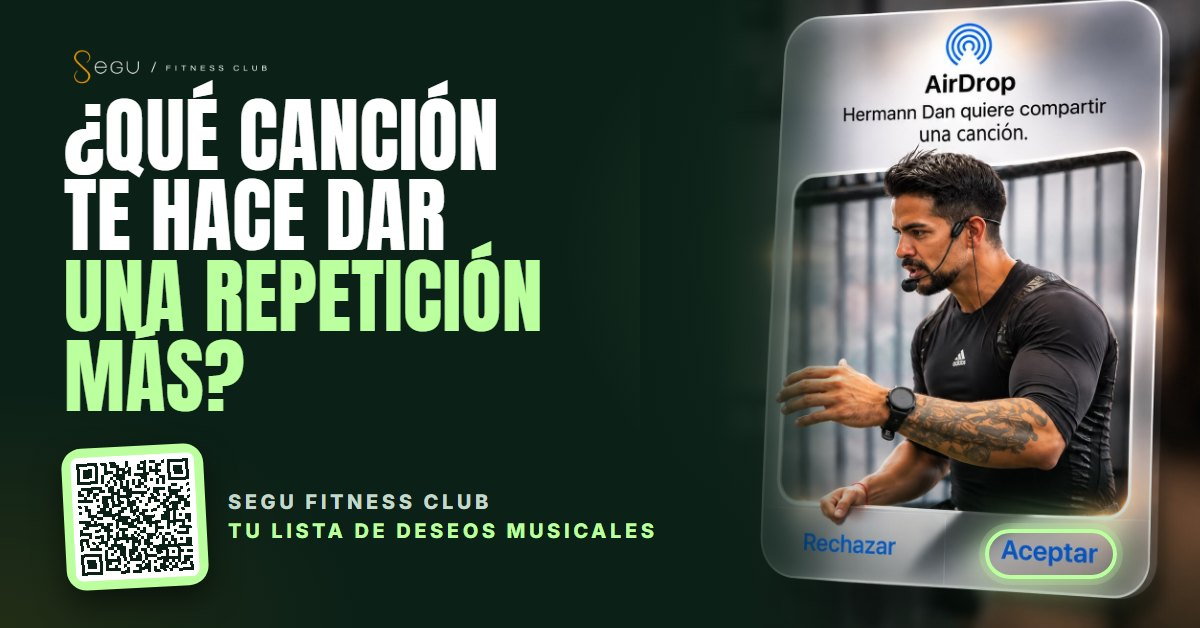
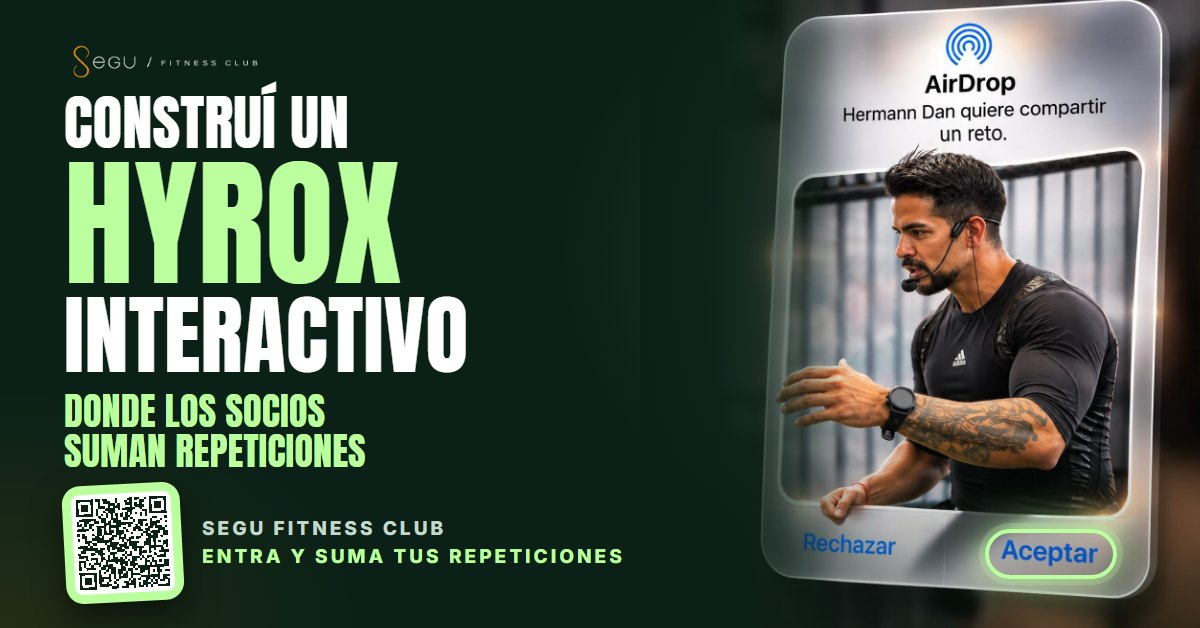
App: HYROX interactivo primero (el visitante suma sus repeticiones); landing y vista previa con la tarjeta nueva

Changed region(s): [[0.0308, 0.0605, 0.555, 0.9682], [0.7708, 0.1815, 0.8633, 0.242]]

diff --git a/app/index.html b/app/index.html
@@ -83,14 +83,17 @@ form.sg input::placeholder{color:#7f9a8a}
 .vote svg{width:14px;height:14px}
 
 /* hyrox */
-.hx-top{display:grid;grid-template-columns:1fr 1fr;gap:10px;margin-bottom:12px}
-.hx-top .card{padding:12px 14px}
-.hx-top b{display:block;font-family:var(--disp);font-weight:400;font-size:34px;line-height:1;color:var(--lime);font-variant-numeric:tabular-nums}
-.hx-top span{font-size:10.5px;font-weight:800;letter-spacing:.16em;color:var(--mut)}
+.hx-top{display:grid;grid-template-columns:1fr 1fr 1fr;gap:8px;margin-bottom:12px}
+.hx-top .card{padding:10px 12px}
+.hx-top b{display:block;font-family:var(--disp);font-weight:400;font-size:30px;line-height:1;color:var(--lime);font-variant-numeric:tabular-nums}
+.hx-top span{font-size:9.5px;font-weight:800;letter-spacing:.14em;color:var(--mut)}
+.hr.me{background:rgba(188,255,159,.12);border-radius:10px}
+.hr.me .nm{color:var(--lime)}
+.sumar{width:100%;padding:20px;font-family:var(--disp);font-weight:400;font-size:30px;letter-spacing:.04em;border-radius:20px}
 .board{position:relative;background:#06130d;border:1px solid rgba(188,255,159,.16);border-radius:18px;padding:10px;overflow:hidden}
 .legend{display:flex;gap:14px;font-size:11px;font-weight:800;letter-spacing:.1em;color:var(--mut);margin-bottom:8px;flex-wrap:wrap}
 .legend i{display:inline-block;width:10px;height:10px;border-radius:3px;margin-right:6px;vertical-align:-1px}
-.rows{position:relative;height:calc(12 * 31px)}
+.rows{position:relative;height:calc(13 * 31px)}
 .hr{position:absolute;left:0;right:0;height:27px;display:flex;align-items:center;gap:8px;transition:transform .55s cubic-bezier(.2,.8,.2,1)}
 .hr .rk{flex:0 0 22px;font-family:var(--disp);font-size:16px;color:var(--mut);text-align:right}
 .hr .nm{flex:0 0 78px;font-size:12.5px;font-weight:700;white-space:nowrap;overflow:hidden;text-overflow:ellipsis}
@@ -98,7 +101,7 @@ form.sg input::placeholder{color:#7f9a8a}
 .hr .tr i{display:block;height:100%;border-radius:8px;transition:width .5s ease,background-color .3s}
 .hr .rn{flex:0 0 34px;font-size:12px;color:var(--mut);text-align:right;font-variant-numeric:tabular-nums}
 .hr.top1 .nm{color:var(--gold)}
-.hr.pop .tr i{filter:brightness(1.5)}
+.hr.pop .tr i{filter:brightness(1.25)}
 .hx-act{margin-top:12px}
 
 /* evaluación */
@@ -156,7 +159,7 @@ input[type=range]{width:100%;accent-color:#bcff9f;height:28px}
 
   <main>
     <!-- MÚSICA -->
-    <section class="panel on" id="p-musica" aria-labelledby="h-musica">
+    <section class="panel" id="p-musica" aria-labelledby="h-musica">
       <h2 id="h-musica">Lista de deseos</h2>
       <p class="sub">Los socios proponen la música de la próxima clase y votan. Gana la que más se pide.</p>
       <div class="next"><div><div class="k">SUENA PRIMERO EN LA CLASE</div><div class="t" id="nxT">—</div><div class="a" id="nxA"></div></div><div class="eq" aria-hidden="true"><i></i><i></i><i></i><i></i><i></i></div></div>
@@ -165,12 +168,12 @@ input[type=range]{width:100%;accent-color:#bcff9f;height:28px}
     </section>
 
     <!-- HYROX -->
-    <section class="panel" id="p-hyrox" aria-labelledby="h-hyrox">
+    <section class="panel on" id="p-hyrox" aria-labelledby="h-hyrox">
       <h2 id="h-hyrox">HYROX en vivo</h2>
-      <p class="sub">Pantalla de carrera con participantes ficticios. Toca ESCANEAR o activa el modo en vivo.</p>
-      <div class="hx-top"><div class="card"><span>REPS EN LA SALA</span><b id="hxReps">0</b></div><div class="card"><span>TIEMPO</span><b id="hxClock">00:00</b></div></div>
-      <div class="board"><div class="legend"><span><i style="background:var(--blue)"></i>PRESS</span><span><i style="background:var(--orange)"></i>PULL</span><span><i style="background:var(--green)"></i>CURL</span><span><i style="background:var(--gold)"></i>META</span></div><div class="rows" id="hxRows"></div></div>
-      <div class="row hx-act"><button class="btn p" id="hxScan" type="button">ESCANEAR</button><button class="btn s" id="hxAuto" type="button" aria-pressed="false">Modo en vivo</button><button class="btn s" id="hxReset" type="button">Reiniciar</button></div>
+      <p class="sub">Eres el participante «TÚ». Toca SUMAR y cada toque te acerca a la meta; los demás ya están corriendo.</p>
+      <div class="hx-top"><div class="card"><span>REPS EN LA SALA</span><b id="hxReps">0</b></div><div class="card"><span>TUS REPS</span><b id="hxMine">0</b></div><div class="card"><span>TIEMPO</span><b id="hxClock">00:00</b></div></div>
+      <button class="btn p sumar" style="margin:0 0 12px" id="hxSumar" type="button">SUMAR REPETICIONES</button><div class="board"><div class="legend"><span><i style="background:var(--blue)"></i>PRESS</span><span><i style="background:var(--orange)"></i>PULL</span><span><i style="background:var(--green)"></i>CURL</span><span><i style="background:var(--gold)"></i>META</span></div><div class="rows" id="hxRows"></div></div>
+      <div class="row hx-act"><button class="btn s" id="hxAuto" type="button" aria-pressed="true">Pausar a los demás</button><button class="btn s" id="hxReset" type="button">Reiniciar</button></div>
     </section>
 
     <!-- EVALUACIÓN -->
@@ -206,8 +209,8 @@ input[type=range]{width:100%;accent-color:#bcff9f;height:28px}
 </div>
 
 <nav class="tabs" aria-label="Experiencias"><div class="in" role="tablist">
-  <button class="tab" role="tab" aria-selected="true" data-p="musica"><svg viewBox="0 0 24 24" fill="none" stroke="currentColor" stroke-width="2" stroke-linecap="round" stroke-linejoin="round"><path d="M9 18V5l11-2v13"/><circle cx="6" cy="18" r="3"/><circle cx="17" cy="16" r="3"/></svg>Música</button>
-  <button class="tab" role="tab" aria-selected="false" data-p="hyrox"><svg viewBox="0 0 24 24" fill="none" stroke="currentColor" stroke-width="2" stroke-linecap="round" stroke-linejoin="round"><path d="M4 21V4M4 4h13l-2 4 2 4H4"/></svg>HYROX</button>
+    <button class="tab" role="tab" aria-selected="true" data-p="hyrox"><svg viewBox="0 0 24 24" fill="none" stroke="currentColor" stroke-width="2" stroke-linecap="round" stroke-linejoin="round"><path d="M4 21V4M4 4h13l-2 4 2 4H4"/></svg>HYROX</button>
+  <button class="tab" role="tab" aria-selected="false" data-p="musica"><svg viewBox="0 0 24 24" fill="none" stroke="currentColor" stroke-width="2" stroke-linecap="round" stroke-linejoin="round"><path d="M9 18V5l11-2v13"/><circle cx="6" cy="18" r="3"/><circle cx="17" cy="16" r="3"/></svg>Música</button>
   <button class="tab" role="tab" aria-selected="false" data-p="eval"><svg viewBox="0 0 24 24" fill="none" stroke="currentColor" stroke-width="2" stroke-linecap="round" stroke-linejoin="round"><path d="M4 20V10M10 20V4M16 20v-7M22 20H2"/></svg>Evaluación</button>
   <button class="tab" role="tab" aria-selected="false" data-p="ruleta"><svg viewBox="0 0 24 24" fill="none" stroke="currentColor" stroke-width="2" stroke-linecap="round" stroke-linejoin="round"><circle cx="12" cy="12" r="9"/><path d="M12 3v18M3 12h18M5.6 5.6l12.8 12.8M18.4 5.6L5.6 18.4"/></svg>Ruleta</button>
 </div></nav>
@@ -227,7 +230,7 @@ function ir(p,noHash){
   $$('.tab').forEach(function(b){b.setAttribute('aria-selected',String(b.dataset.p===p))});
   if(!noHash){try{history.replaceState(null,'','#'+p)}catch(e){}}
   window.scrollTo({top:0,behavior:reduce?'auto':'smooth'});
-  if(p!=='hyrox')hxAutoOff();
+  if(p!=='hyrox'){if(auto){clearInterval(auto);auto=null}}else hxAutoOn();
 }
 $$('.tab').forEach(function(b){b.addEventListener('click',function(){ir(b.dataset.p)})});
 var h=(location.hash||'').slice(1); if(['musica','hyrox','eval','ruleta'].indexOf(h)>-1)ir(h,true);
@@ -262,10 +265,10 @@ $('#sgForm').addEventListener('submit',function(e){
 renderSongs();
 
 /* ---------- HYROX ---------- */
-var NOMBRES=['Ana P.','Bruno S.','Camila R.','Diego M.','Elena S.','Felipe R.','Gabriela N.','Hugo C.','Isidora V.','Joaquín M.','Karla D.','Luis P.'];
+var NOMBRES=['Ana P.','Bruno S.','Camila R.','Diego M.','Elena S.','Felipe R.','Gabriela N.','Hugo C.','Isidora V.','Joaquín M.','Karla D.','Luis P.','TÚ'];
 var REPS=[6,12,24,6,12,24,48,6,12,24,48,64], TOTAL=12;
 var hx=[], t0=0, clk=null, auto=null;
-function hxInit(){hx=NOMBRES.map(function(n,i){return {n:n,r:0,i:i,last:0}});t0=Date.now();hxRender()}
+function hxInit(){hx=NOMBRES.map(function(n,i){return {n:n,r:0,i:i,last:0,me:n==='TÚ'}});t0=Date.now();var c=$('#hxRows');c.innerHTML='';hxRender()}
 function color(r){return r>=TOTAL?'var(--gold)':r>=8?'var(--green)':r>=3?'var(--orange)':'var(--blue)'}
 function pintaClock(){var s=Math.floor((Date.now()-t0)/1000);$('#hxClock').textContent=String(Math.floor(s/60)).padStart(2,'0')+':'+String(s%60).padStart(2,'0')}
 function hxRender(pop){
@@ -274,30 +277,33 @@ function hxRender(pop){
   orden.forEach(function(p,pos){
     var el=cont.children[p.i];
     el.style.transform='translateY('+(pos*31)+'px)';
-    el.classList.toggle('top1',pos===0&&p.r>0);
+    el.classList.toggle('top1',pos===0&&p.r>0);el.classList.toggle('me',!!p.me);
     el.firstChild.textContent=(pos+1);
     var bar=el.querySelector('i'); bar.style.width=(p.r/TOTAL*100)+'%'; bar.style.backgroundColor=color(p.r);
     el.lastChild.textContent=p.r>=TOTAL?'META':p.r+'/'+TOTAL;
     el.classList.toggle('pop',pop===p.i);
   });
   var reps=hx.reduce(function(a,p){var s=0;for(var k=0;k<p.r;k++)s+=REPS[k];return a+s},0);
-  $('#hxReps').textContent=reps;
+  $('#hxReps').textContent=reps;var yo=hx.filter(function(p){return p.me})[0],mine=0;for(var k2=0;k2<yo.r;k2++)mine+=REPS[k2];$('#hxMine').textContent=mine;
   if(pop!=null)setTimeout(function(){var e=cont.children[pop];if(e)e.classList.remove('pop')},350);
 }
 function hxPaso(){
-  var libres=hx.filter(function(p){return p.r<TOTAL}); if(!libres.length){hxAutoOff();toast('¡Todos en la meta!');return}
+  var libres=hx.filter(function(p){return !p.me&&p.r<TOTAL}); if(!libres.length){return}
   var p=libres[Math.floor(Math.random()*libres.length)]; p.r++; p.last=Date.now(); hxRender(p.i);
 }
-function hxAutoOff(){if(auto){clearInterval(auto);auto=null}var b=$('#hxAuto');if(b){b.setAttribute('aria-pressed','false');b.textContent='Modo en vivo'}}
-$('#hxScan').addEventListener('click',hxPaso);
-$('#hxAuto').addEventListener('click',function(){
-  if(auto){hxAutoOff();return}
-  this.setAttribute('aria-pressed','true');this.textContent='Pausar';
-  auto=setInterval(hxPaso,reduce?1200:650);
-});
-$('#hxReset').addEventListener('click',function(){hxAutoOff();hxInit()});
+function hxSumar(){
+  var yo=hx.filter(function(p){return p.me})[0]; if(yo.r>=TOTAL){toast('Ya estás en la meta. Reinicia para correr de nuevo.');return}
+  var n=REPS[yo.r]; yo.r++; yo.last=Date.now(); hxRender(yo.i);
+  if(yo.r>=TOTAL){var pos=hx.slice().sort(function(a,b){return b.r-a.r||b.last-a.last}).indexOf(yo)+1;toast('🏁 ¡Llegaste a la meta! Puesto '+pos+' · '+$('#hxClock').textContent)}
+  else toast('+'+n+' repeticiones');
+}
+function hxAutoOn(){if(auto)return;var b=$('#hxAuto');b.setAttribute('aria-pressed','true');b.textContent='Pausar a los demás';auto=setInterval(hxPaso,reduce?1500:900)}
+function hxAutoOff(){if(auto){clearInterval(auto);auto=null}var b=$('#hxAuto');if(b){b.setAttribute('aria-pressed','false');b.textContent='Reanudar a los demás'}}
+$('#hxSumar').addEventListener('click',hxSumar);
+$('#hxAuto').addEventListener('click',function(){if(auto)hxAutoOff();else hxAutoOn()});
+$('#hxReset').addEventListener('click',function(){hxAutoOff();hxInit();hxAutoOn()});
 clk=setInterval(pintaClock,500);
-hxInit();
+hxInit();if($('#p-hyrox').classList.contains('on'))hxAutoOn();
 
 /* ---------- EVALUACIÓN ---------- */
 var ALT=168, EDAD_REAL=38;

diff --git a/index.html b/index.html
@@ -103,7 +103,7 @@ h1{font-family:var(--disp);font-weight:400;text-transform:uppercase;line-height:
       <span class="l2 a d2">Te la cuento en el Summit.</span>
     </h1>
     <div class="cta a d3">
-      <a class="try" href="app/"><span class="ic" aria-hidden="true">▶</span><span><b>VÍVELO TÚ TAMBIÉN</b><small>4 experiencias · toma 2 minutos</small></span><span class="go" aria-hidden="true">→</span></a>
+      <a class="try" href="app/"><span class="ic" aria-hidden="true">▶</span><span><b>VÍVELO TÚ TAMBIÉN</b><small>Suma repeticiones en un HYROX en vivo · 2 minutos</small></span><span class="go" aria-hidden="true">→</span></a>
       <div class="ub">UBÍCAME EN</div>
       <a class="btn p" href="https://www.instagram.com/segufitnesscl/" target="_blank" rel="noopener">
         <svg class="ig" viewBox="0 0 24 24" fill="none" stroke="#0b2017" stroke-width="2" stroke-linecap="round" stroke-linejoin="round" aria-hidden="true"><rect x="3" y="3" width="18" height="18" rx="5"/><circle cx="12" cy="12" r="4"/><circle cx="17.4" cy="6.6" r="1" fill="#0b2017"/></svg>
